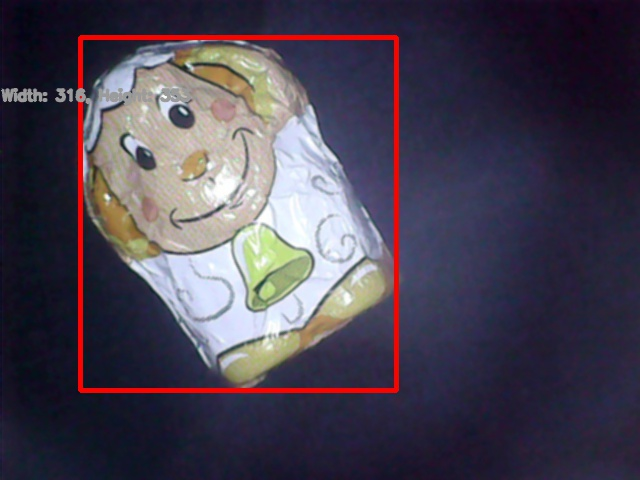
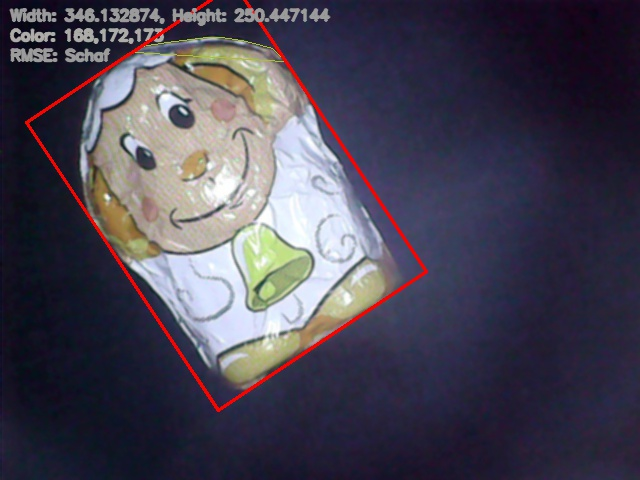
RMSE Classifier integrated

Changed region(s): [[0.0, 0.0, 0.6875, 0.875], [0.5312, 0.6562, 0.5625, 0.6875], [0.5, 0.6875, 0.5312, 0.7188]]

diff --git a/main.py b/main.py
@@ -12,11 +12,13 @@ import math
 
 use_tilted_rect = True
 
-# do_live = False # Schalter zwischen LiveKamera und Übungsbildern
-do_live = True
+do_live = False # Schalter zwischen LiveKamera und Übungsbildern
+#do_live = True
 
 
 def detect(frame):
+    
+    feat = [] # Feature Array
 
     font = cv2.FONT_HERSHEY_SIMPLEX
 
@@ -106,7 +108,11 @@ def detect(frame):
 
     cv2.imshow("Original", frame)
     
-    return frame, edges
+    feat.append(w)
+    feat.append(h)
+    feat.append(color)
+    
+    return frame, edges, feat
 
 
 def makeWindows():
@@ -181,6 +187,35 @@ def thisIsWhereTheMagicHappens(h):
     heightprob = probabilityMatrix(classprob)
 
     print(heightprob)
+    
+def rmseClassifier(feat):
+
+    klasse = "Unknown"
+    rmse = []
+    
+    ## Mittelwerte Breite Höhe Farbe
+    yK = [393.568, 226.339, 3] # Küken
+    yH = [269.751, 215.735, 3]  # Hasen
+    yS = [339.887, 237.996, 3]  # Schafe
+    yP = [318.529, 239.186, 3]  # Schmetterlinge
+    cl = ["Küken", "Hase", "Schaf", "Schmetterling"]
+    
+    n = len(yK)  # Anzahl Merkmale
+        
+    w = feat[0]
+    h = feat[1]
+    c = sum(map(float, filter(None, feat[2][1:])))/(len(feat[2])-1)
+    
+    rmse.append(math.sqrt((1 / n) * (pow((yK[0] - w),2) + pow((yK[1] - h),2) + pow((yK[2] - c),2))))
+    rmse.append(math.sqrt((1 / n) * (pow((yH[0] - w),2) + pow((yH[1] - h),2) + pow((yH[2] - c),2))))
+    rmse.append(math.sqrt((1 / n) * (pow((yS[0] - w),2) + pow((yS[1] - h),2) + pow((yS[2] - c),2))))
+    rmse.append(math.sqrt((1 / n) * (pow((yP[0] - w),2) + pow((yP[1] - h),2) + pow((yP[2] - c),2))))
+        
+    klasse = cl[rmse.index(min(rmse))]
+    
+    print(klasse)
+    return klasse
+
 
 
 if __name__ == "__main__":
@@ -205,10 +240,17 @@ if __name__ == "__main__":
 
         if ret:  # Falls gültiges Bild gelesen
             
-            frame, edges = detect(frame)
+            frame, edges, feat = detect(frame)
+            
+            rmseklasse = rmseClassifier(feat)
+            
+            cv2.putText(frame, "RMSE: {}".format(rmseklasse),
+                (10, 60), cv2.FONT_HERSHEY_SIMPLEX, 0.5,
+                (int(155), int(155), int(155)),
+                2, cv2.LINE_AA)
 
-#            cv2.imwrite("_Data/Puit/{}.jpg", frame)
-#            cv2.imwrite("_Data/Puit/{}_canny.jpg".format(fnames[cnt][6:10]), mask)
+            cv2.imwrite("_Data/Puit/{}.jpg".format(fnames[cnt][6:10]), frame)
+#            cv2.imwrite("_Data/Puit/{}_canny.jpg".format(fnames[cnt][6:10]), edges)
 
             if (cv2.waitKey(20) & 0xFF) == ord("q"):
                 break
@@ -216,9 +258,9 @@ if __name__ == "__main__":
             if (not do_live) and cnt >= len(fnames):
                 break
 
-#            cnt = cnt + 1
-#            if cnt > 11:
-#                break
+            cnt = cnt + 1
+            if cnt > 11:
+                break
 
         else:  # Falls Bild ungültig, Kamera nicht bereit oÄ
             print("Could not retrieve any Picture... Sad...")
